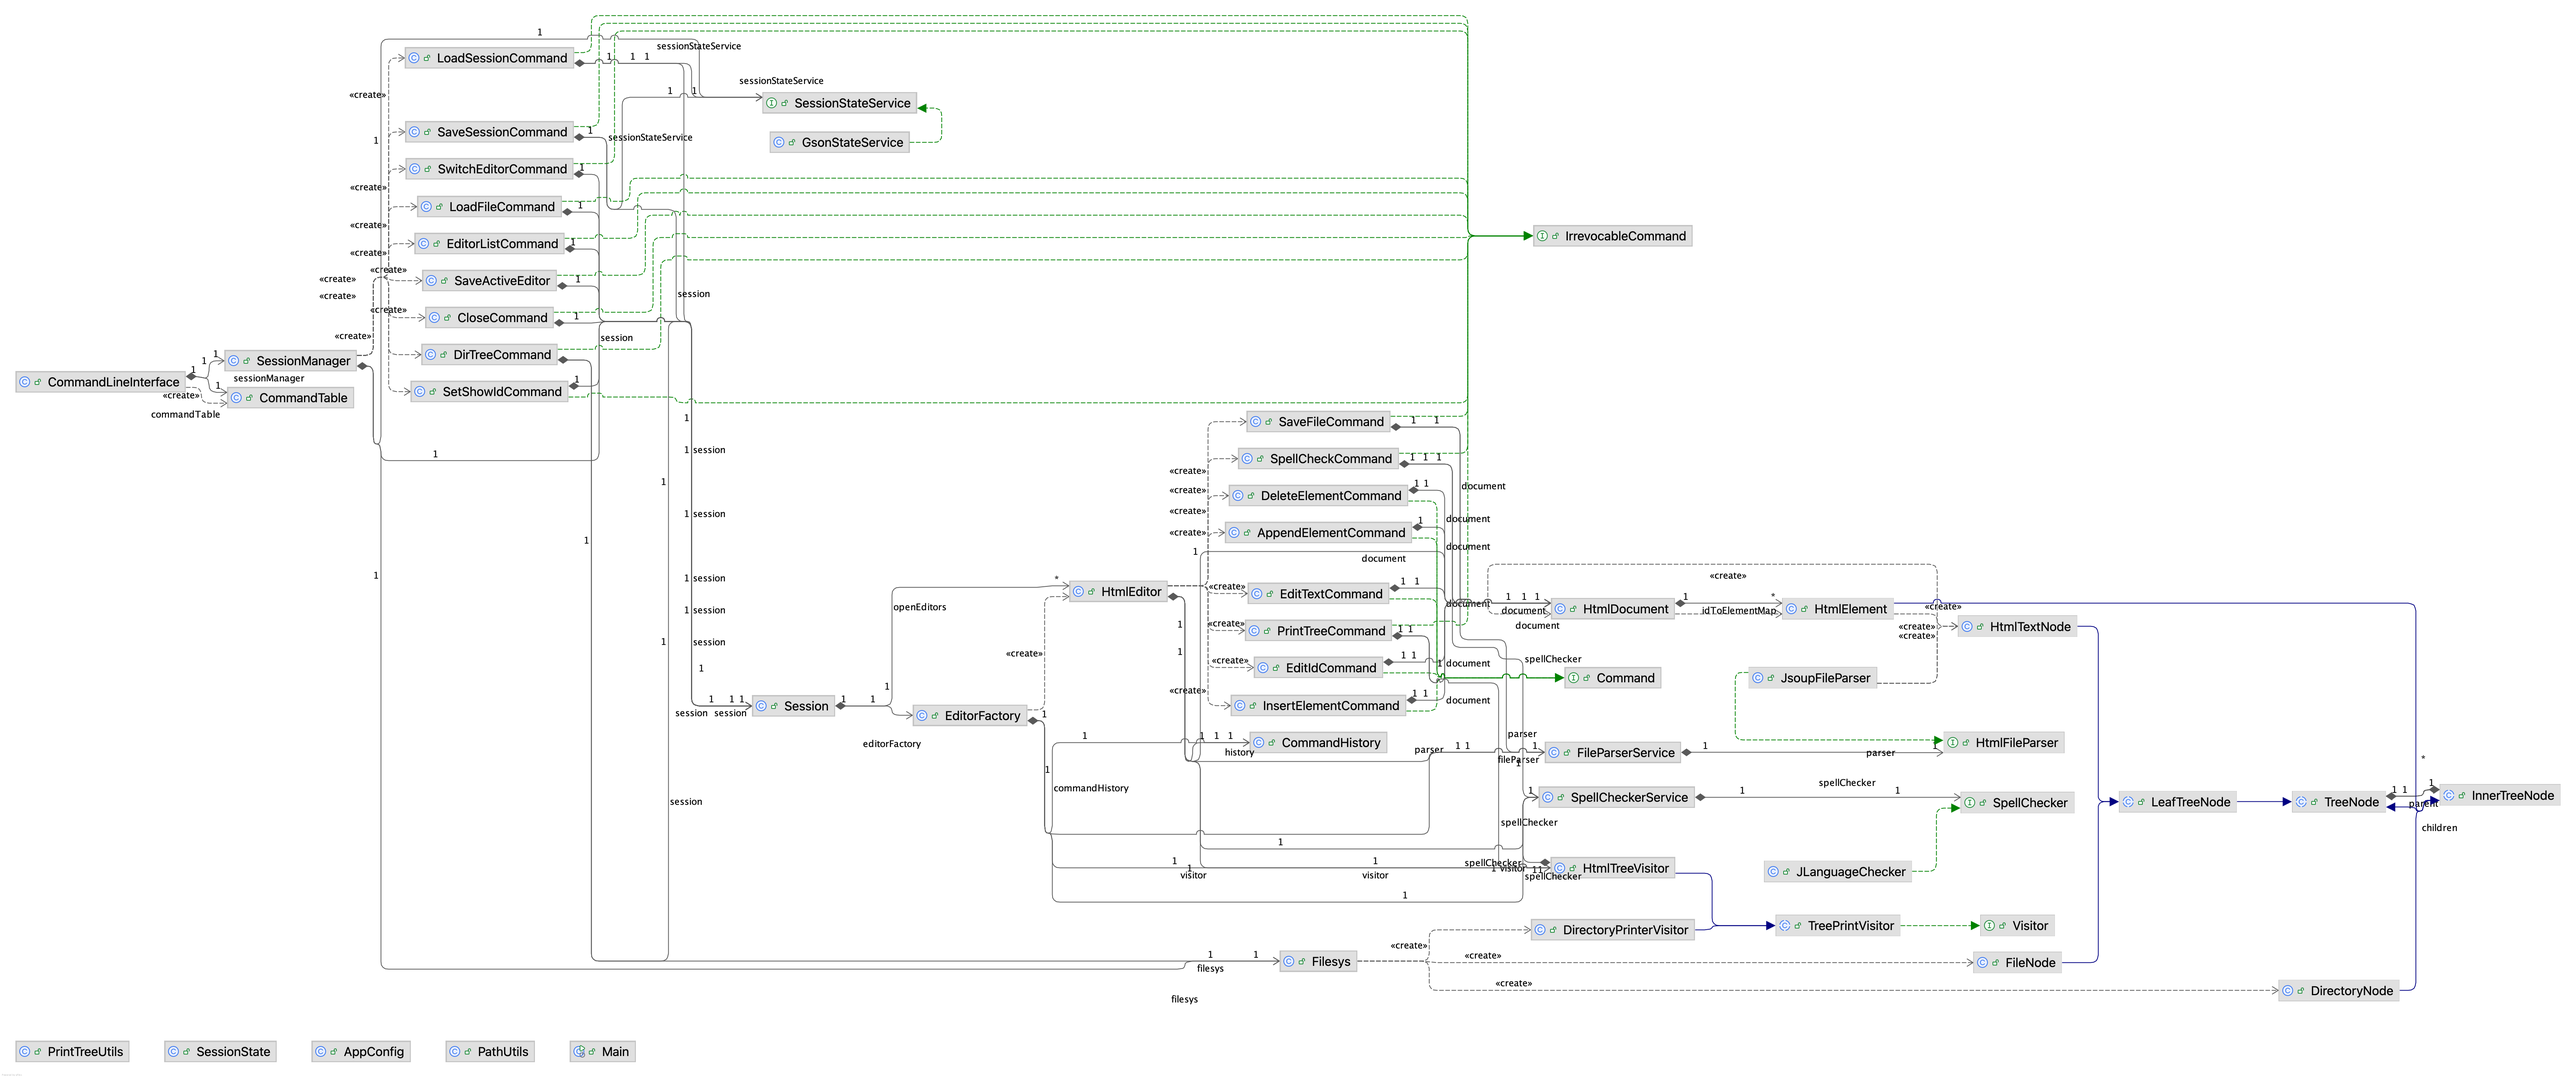
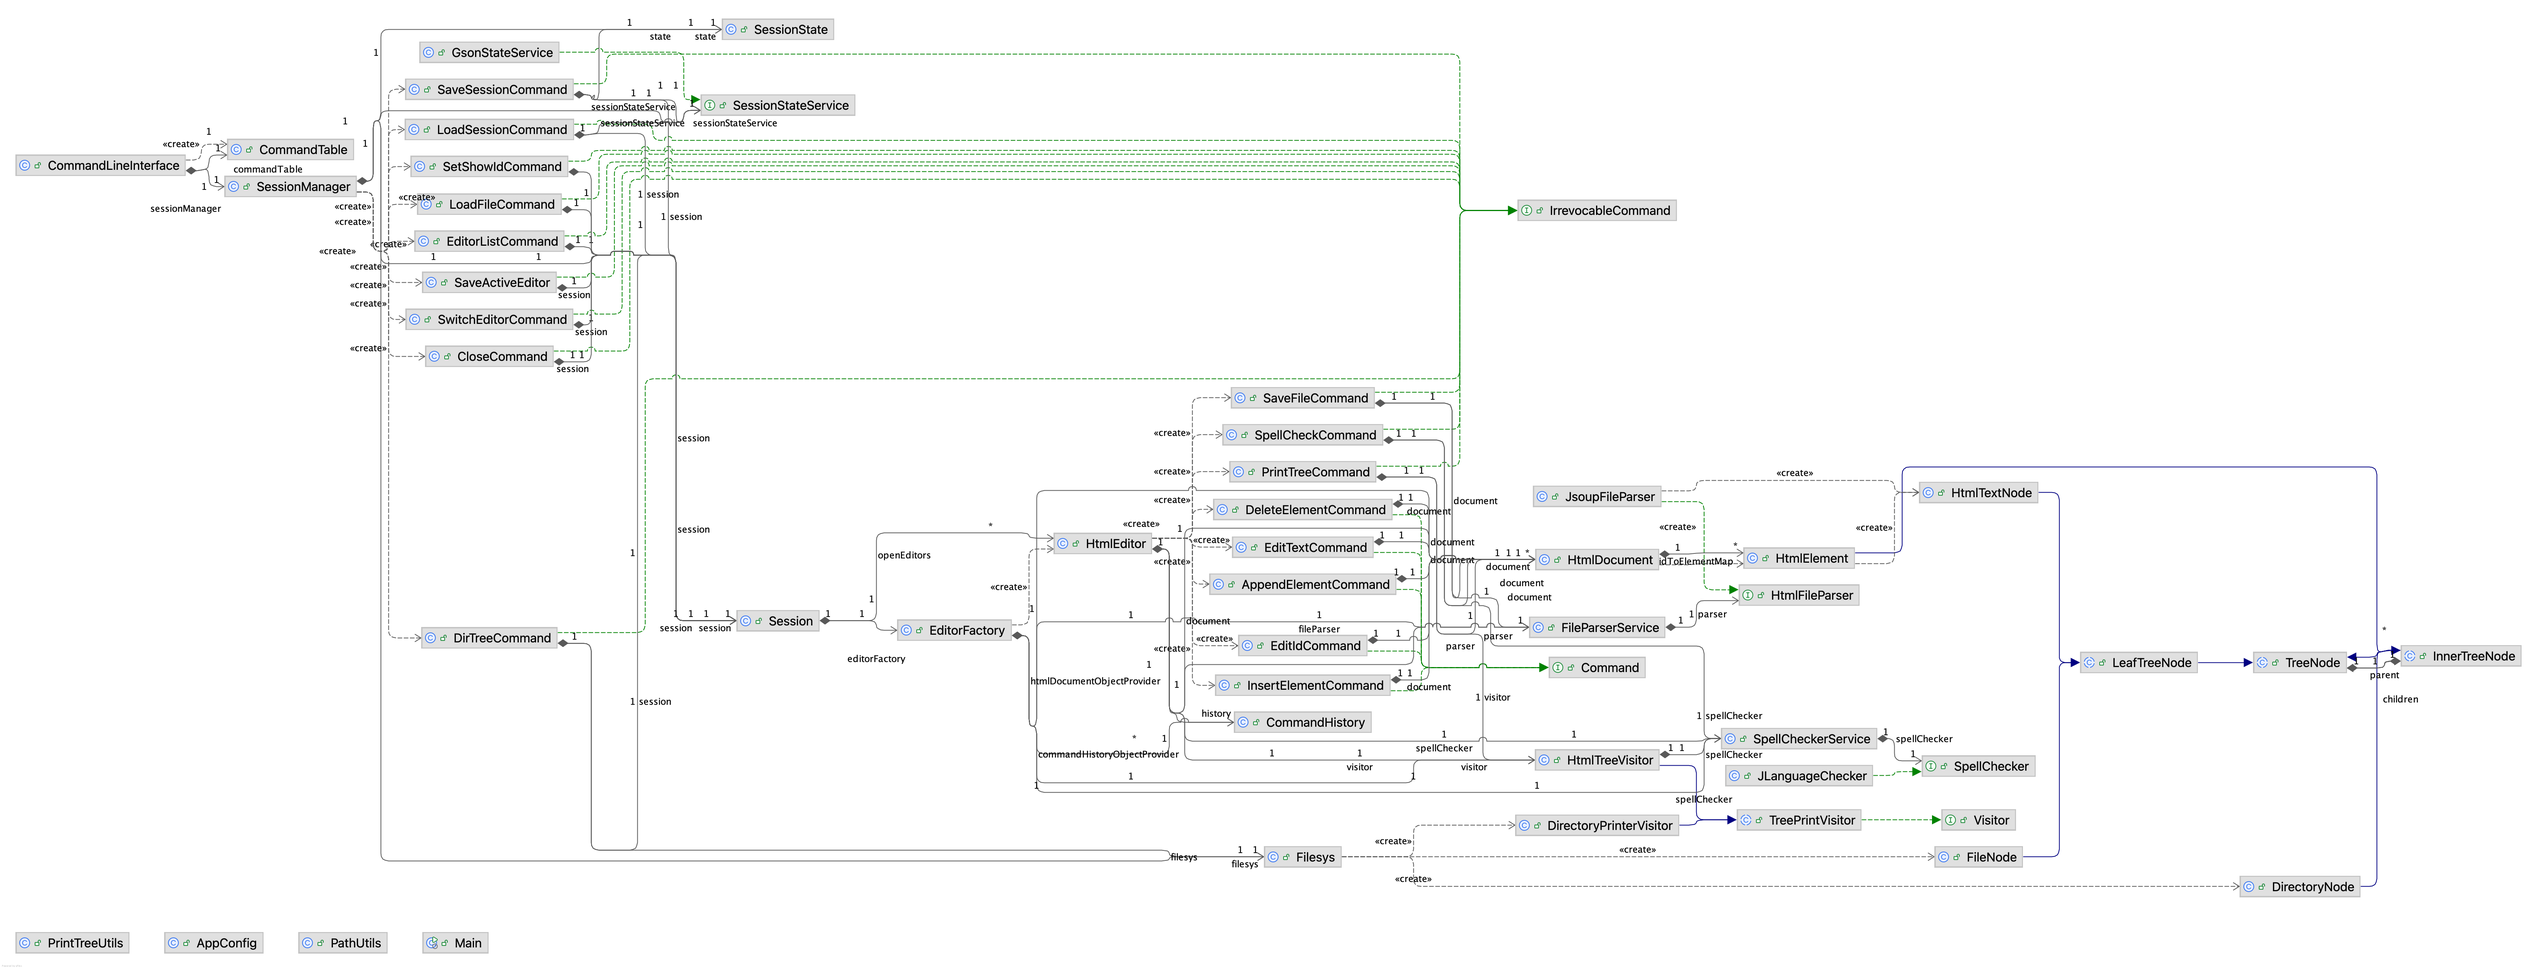
refactor

diff --git a/src/test/java/org/example/cli/IntegratedTest.java b/src/test/java/org/example/cli/IntegratedTest.java
@@ -1,25 +1,13 @@
 package org.example.cli;
 
-import org.example.document.HtmlDocument;
-import org.example.document.HtmlTreeVisitor;
-import org.example.editor.CommandHistory;
-import org.example.editor.EditorFactory;
-import org.example.editor.HtmlEditor;
-import org.example.session.Session;
 import org.example.session.SessionManager;
-import org.example.tools.SessionStateSaver.GsonStateService;
-import org.example.tools.SessionStateSaver.SessionState;
-import org.example.tools.SessionStateSaver.SessionStateService;
-import org.example.tools.filesys.Filesys;
-import org.example.tools.htmlparser.FileParserService;
-import org.example.tools.htmlparser.JsoupFileParser;
-import org.example.tools.spellchecker.JLanguageChecker;
-import org.example.tools.spellchecker.SpellCheckerService;
 import org.example.tools.utils.CommandTable;
 import org.junit.jupiter.api.AfterEach;
 import org.junit.jupiter.api.BeforeEach;
 import org.junit.jupiter.api.Test;
 import org.junit.jupiter.api.io.TempDir;
+import org.springframework.beans.factory.annotation.Autowired;
+import org.springframework.boot.test.context.SpringBootTest;
 
 import java.io.ByteArrayInputStream;
 import java.io.ByteArrayOutputStream;
@@ -32,22 +20,14 @@ import java.util.Scanner;
 
 import static org.junit.jupiter.api.Assertions.*;
 
+@SpringBootTest
 class IntegratedTest {
 
     private final InputStream originalIn = System.in;
     private final PrintStream originalOut = System.out;
     private ByteArrayOutputStream outputStream;
-    private final JsoupFileParser jsoupFileParser = new JsoupFileParser();
-    private final FileParserService fileParserService = new FileParserService(jsoupFileParser);
-    private final JLanguageChecker jLanguageChecker = new JLanguageChecker();
-    private final SpellCheckerService spellCheckerService = new SpellCheckerService(jLanguageChecker);
-    private final HtmlTreeVisitor htmlTreeVisitor = new HtmlTreeVisitor(spellCheckerService);
-    private final SessionStateService service = new GsonStateService();
-    private final Filesys filesys = new Filesys();
-    private final SessionState state = new SessionState();
-    private final SessionManager sessionManager = new SessionManager(
-            new Session(new EditorFactory(spellCheckerService, fileParserService, htmlTreeVisitor,new CommandHistory())),
-            service, filesys, state);
+
+    @Autowired private SessionManager sessionManager;
 
     @TempDir
     Path tempDir;
@@ -87,6 +67,7 @@ class IntegratedTest {
         // Reset System.in and System.out
         System.setIn(originalIn);
         System.setOut(originalOut);
+        sessionManager.setCwd(null);
     }
 
     @Test
@@ -102,12 +83,13 @@ class IntegratedTest {
         cli.start();
 
         assertTrue(sessionManager.cwdIsSet());
-        assertTrue(outputStream.toString().contains("Current working directory"));
+        System.out.println(System.getProperty("user.dir"));
         assertTrue(outputStream.toString().contains(System.getProperty("user.dir")));
     }
 
     @Test
-    void testStartWithCustomDirectory() {
+    void testStartWithCustomDirectory() throws IOException {
+        Files.deleteIfExists(Paths.get("session.json"));
         String testDir = tempDir.toString();
         String input = testDir + "\n";
         System.setIn(new ByteArrayInputStream(input.getBytes()));

diff --git a/src/main/java/org/example/editor/EditorFactory.java b/src/main/java/org/example/editor/EditorFactory.java
@@ -8,6 +8,7 @@ import org.example.tools.htmlparser.JsoupFileParser;
 import org.example.tools.spellchecker.SpellChecker;
 import org.example.tools.spellchecker.SpellCheckerService;
 import org.example.tools.treeprinter.Visitor;
+import org.springframework.beans.factory.ObjectProvider;
 import org.springframework.beans.factory.annotation.Autowired;
 import org.springframework.stereotype.Component;
 
@@ -16,18 +17,24 @@ public class EditorFactory {
     private final SpellCheckerService spellChecker;
     private final FileParserService fileParser;
     private final HtmlTreeVisitor visitor;
-    private final CommandHistory commandHistory;
+    private final ObjectProvider<CommandHistory> commandHistoryObjectProvider;
+    private final ObjectProvider<HtmlDocument> htmlDocumentObjectProvider;
 
     @Autowired
-    public EditorFactory(SpellCheckerService checker, FileParserService fileParser, HtmlTreeVisitor visitor, CommandHistory commandHistory) {
+    public EditorFactory(SpellCheckerService checker, FileParserService fileParser, HtmlTreeVisitor visitor,
+                         ObjectProvider<CommandHistory> commandHistoryObjectProvider,
+                         ObjectProvider<HtmlDocument> htmlDocumentObjectProvider) {
         this.spellChecker = checker;
         this.fileParser = fileParser;
         this.visitor = visitor;
-        this.commandHistory = commandHistory;
+        this.commandHistoryObjectProvider = commandHistoryObjectProvider;
+        this.htmlDocumentObjectProvider = htmlDocumentObjectProvider;
     }
 
     public HtmlEditor createEditor(String filePath, Boolean showId) {
-        HtmlDocument document = fileParser.readHtmlFromFile(filePath);
+        HtmlDocument document = htmlDocumentObjectProvider.getIfAvailable();
+        fileParser.readHtmlFromFile(filePath, document);
+        CommandHistory commandHistory = commandHistoryObjectProvider.getIfAvailable();
         return new HtmlEditor(spellChecker, fileParser, filePath, showId, visitor, commandHistory, document);
     }
 }

diff --git a/src/test/java/org/example/editor/EditorFactoryTest.java b/src/test/java/org/example/editor/EditorFactoryTest.java
@@ -2,11 +2,19 @@ package org.example.editor;
 
 import static org.junit.jupiter.api.Assertions.*;
 
+import org.example.document.HtmlDocument;
 import org.example.document.HtmlTreeVisitor;
 import org.example.tools.htmlparser.FileParserService;
 import org.example.tools.spellchecker.SpellCheckerService;
 import org.junit.jupiter.api.BeforeEach;
 import org.junit.jupiter.api.Test;
+import org.mockito.Mockito;
+import org.springframework.beans.factory.ObjectProvider;
+import org.springframework.beans.factory.annotation.Autowired;
+import org.springframework.boot.test.context.SpringBootTest;
+import org.springframework.boot.test.context.TestConfiguration;
+import org.springframework.boot.test.mock.mockito.MockBean;
+import org.springframework.context.annotation.Bean;
 
 import static org.mockito.Mockito.*;
 import static org.junit.jupiter.api.Assertions.*;
@@ -21,8 +29,15 @@ class EditorFactoryTest {
         FileParserService mockFileParser = mock(FileParserService.class);
         HtmlTreeVisitor mockVisitor = mock(HtmlTreeVisitor.class);
         CommandHistory mockCommandHistory = mock(CommandHistory.class);
+        HtmlDocument mockHtmlDocument = mock(HtmlDocument.class);
 
-        editorFactory = new EditorFactory(mockSpellChecker, mockFileParser, mockVisitor, mockCommandHistory);
+        ObjectProvider<HtmlDocument> htmlDocumentProvider = mock(ObjectProvider.class);
+        when(htmlDocumentProvider.getIfAvailable()).thenReturn(mockHtmlDocument);
+
+        ObjectProvider<CommandHistory> commandHistoryProvider = mock(ObjectProvider.class);
+        when(commandHistoryProvider.getIfAvailable()).thenReturn(mockCommandHistory);
+
+        editorFactory = new EditorFactory(mockSpellChecker, mockFileParser, mockVisitor, commandHistoryProvider, htmlDocumentProvider);
     }
 
     @Test

diff --git a/src/main/java/org/example/tools/SessionStateSaver/SessionStateService.java b/src/main/java/org/example/tools/SessionStateSaver/SessionStateService.java
@@ -1,7 +1,38 @@
 package org.example.tools.SessionStateSaver;
 
-public interface SessionStateService {
-    void saveSession(SessionState state);
-    SessionState loadSession();
-    boolean sessionFileExists();
+import org.springframework.stereotype.Component;
+
+import java.io.*;
+import java.nio.file.*;
+
+@Component
+public class SessionStateService {
+    private static final String SESSION_FILE = "session.json";
+    private final JsonParser jsonParser;
+
+    public SessionStateService(JsonParser jsonParser) {
+        this.jsonParser = jsonParser;
+    }
+
+    public void saveSession(SessionState state) {
+        try (Writer writer = new FileWriter(SESSION_FILE)) {
+            String json = jsonParser.toJson(state);
+            writer.write(json);
+        } catch (IOException e) {
+            throw new RuntimeException(e);
+        }
+    }
+
+    public SessionState loadSession() {
+        try {
+            String json = new String(Files.readAllBytes(Paths.get(SESSION_FILE)));
+            return jsonParser.fromJson(json);
+        } catch (IOException e) {
+            return null;
+        }
+    }
+
+    public boolean sessionFileExists() {
+        return Files.exists(Paths.get(SESSION_FILE));
+    }
 }

diff --git a/src/test/java/org/example/tools/htmlparser/FileParserServiceTest.java b/src/test/java/org/example/tools/htmlparser/FileParserServiceTest.java
@@ -52,15 +52,9 @@ class FileParserServiceTest {
                 """;
         Files.writeString(testFile, htmlContent);
 
-        // 设置mock行为
-        when(mockParser.parse(htmlContent)).thenReturn(mockHtmlDocument);
+        fileParserService.readHtmlFromFile(testFile.toString(), mockHtmlDocument);
 
-        // 执行测试
-        HtmlDocument result = fileParserService.readHtmlFromFile(testFile.toString());
-
-        // 验证
-        assertSame(mockHtmlDocument, result);
-        verify(mockParser).parse(htmlContent);
+        verify(mockParser).parse(htmlContent, mockHtmlDocument);
     }
 
     @Test
@@ -68,7 +62,7 @@ class FileParserServiceTest {
         String nonExistPath = tempDir.resolve("nonexist.html").toString();
 
         RuntimeException exception = assertThrows(RuntimeException.class,
-                () -> fileParserService.readHtmlFromFile(nonExistPath));
+                () -> fileParserService.readHtmlFromFile(nonExistPath, mockHtmlDocument));
 
         assertTrue(exception.getCause() instanceof IOException);
     }

diff --git a/src/main/java/org/example/tools/htmlparser/JsoupFileParser.java b/src/main/java/org/example/tools/htmlparser/JsoupFileParser.java
@@ -16,10 +16,9 @@ public class JsoupFileParser implements HtmlFileParser {
 
     /**
      * Parses the given HTML string and returns an HtmlDocument object.
-     * @return htmlDocument
      */
     @Override
-    public HtmlDocument parse(String html) {
+    public void parse(String html, HtmlDocument htmlDocument) {
         Document jsoupDoc = Jsoup.parse(html, "", Parser.xmlParser());
 
         validateDocumentStructure(jsoupDoc);
@@ -27,11 +26,9 @@ public class JsoupFileParser implements HtmlFileParser {
         Element jsoupRootElement = jsoupDoc.select("html").first();
         assert jsoupRootElement != null;
 
-        HtmlDocument htmlDocument = new HtmlDocument();
         HtmlElement htmlRootElement = parseElement(jsoupRootElement, null, htmlDocument);
         htmlDocument.setRoot(htmlRootElement);
 
-        return htmlDocument;
     }
 
 

diff --git a/src/test/java/org/example/tools/SessionStateSaver/SessionStateServiceTest.java b/src/test/java/org/example/tools/SessionStateSaver/SessionStateServiceTest.java
@@ -1,7 +1,5 @@
 package org.example.tools.SessionStateSaver;
 
-import org.example.tools.SessionStateSaver.SessionState;
-import org.example.tools.SessionStateSaver.GsonStateService;
 import org.junit.jupiter.api.AfterEach;
 import org.junit.jupiter.api.Test;
 import java.io.File;
@@ -15,9 +13,9 @@ import static org.junit.jupiter.api.Assertions.*;
 
 
 
-class GsonStateServiceTest {
+class SessionStateServiceTest {
 
-    private final GsonStateService saver = new GsonStateService();
+    private final SessionStateService saver = new SessionStateService(new GsonParser());
 
     @AfterEach
     void tearDown() {

diff --git a/src/main/java/org/example/tools/SessionStateSaver/GsonParser.java b/src/main/java/org/example/tools/SessionStateSaver/GsonParser.java
@@ -1,0 +1,20 @@
+package org.example.tools.SessionStateSaver;
+
+import com.google.gson.Gson;
+import com.google.gson.GsonBuilder;
+import org.springframework.stereotype.Component;
+
+@Component
+public class GsonParser implements JsonParser{
+    private static final Gson gson = new GsonBuilder().setPrettyPrinting().create();
+
+    @Override
+    public String toJson(SessionState state) {
+        return gson.toJson(state);
+    }
+
+    @Override
+    public SessionState fromJson(String json) {
+        return gson.fromJson(json, SessionState.class);
+    }
+}

diff --git a/src/main/java/org/example/tools/htmlparser/FileParserService.java b/src/main/java/org/example/tools/htmlparser/FileParserService.java
@@ -20,9 +20,9 @@ public class FileParserService {
         this.parser = parser;
     }
 
-    public HtmlDocument readHtmlFromFile(String filePath) {
+    public void readHtmlFromFile(String filePath, HtmlDocument document) {
         String htmlContent = readFileToString(filePath);
-        return parser.parse(htmlContent);
+        parser.parse(htmlContent, document);
     }
 
     public void saveHtmlDocumentToFile(HtmlDocument document, String filePath) {

diff --git a/src/main/java/org/example/Main.java b/src/main/java/org/example/Main.java
@@ -7,13 +7,6 @@ import org.springframework.context.ApplicationContext;
 import org.springframework.context.annotation.AnnotationConfigApplicationContext;
 
 
-//@SpringBootApplication
-//public class Main {
-//    public static void main(String[] args) {
-//        new CommandLineInterface().start();
-//    }
-//}
-
 @SpringBootApplication
 public class Main {
     public static void main(String[] args) {

diff --git a/src/main/java/org/example/tools/htmlparser/HtmlFileParser.java b/src/main/java/org/example/tools/htmlparser/HtmlFileParser.java
@@ -4,5 +4,5 @@ import org.example.document.HtmlDocument;
 
 public interface HtmlFileParser {
     String rebuild(HtmlDocument myDocument);
-    HtmlDocument parse(String html);
+    void parse(String html, HtmlDocument document);
 }

diff --git a/src/main/java/org/example/tools/SessionStateSaver/JsonParser.java b/src/main/java/org/example/tools/SessionStateSaver/JsonParser.java
@@ -1,0 +1,9 @@
+package org.example.tools.SessionStateSaver;
+
+
+public interface JsonParser {
+
+    String toJson(SessionState state);
+
+    SessionState fromJson(String json);
+}
